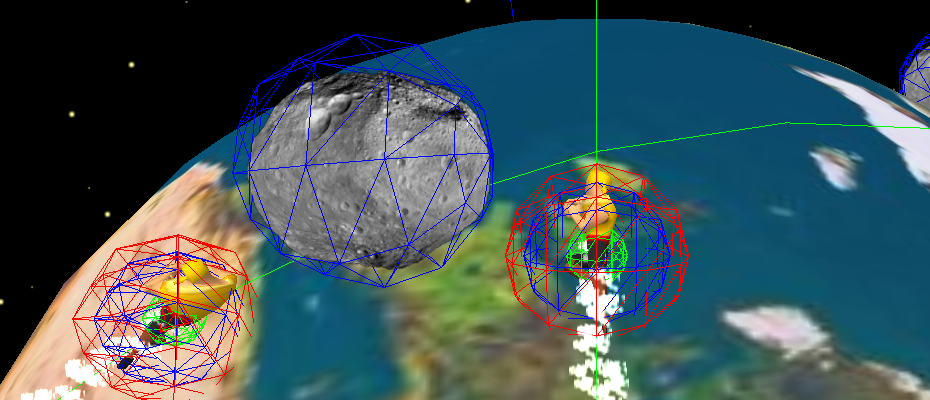
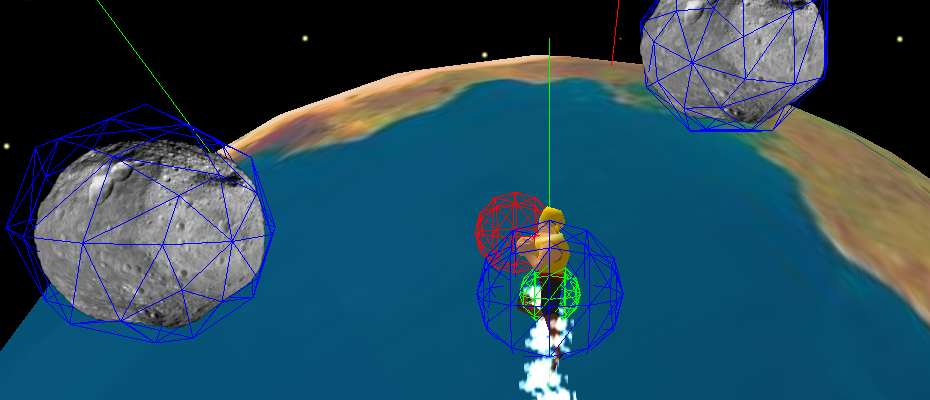
Updates the punch hitbox so only the fists can damage asteroids.

diff --git a/googleclosure/src/objects/Player.js b/googleclosure/src/objects/Player.js
@@ -74,6 +74,10 @@ l3.objects.Player = function(model, stateMachine, options) {
     this.pivot2.add(this.pivot);
     this.pivot.add(this.model);
 
+    this.punchHitbox = new THREE.Object3D();
+    this.punchHitbox.position.set(1.3, 0.6, 0);
+    this.pivot.add(this.punchHitbox);
+
     if (debug === true) {
         var hitbox = new THREE.Mesh(new THREE.SphereGeometry(this.size), new THREE.MeshBasicMaterial({ 'color': 0x0000ff, 'wireframe': true }));
         hitbox.position.z = model.position.z;
@@ -83,9 +87,9 @@ l3.objects.Player = function(model, stateMachine, options) {
         hitbox2.position.z = model.position.z;
         this.pivot.add(hitbox2);
 
-        var hitbox3 = new THREE.Mesh(new THREE.SphereGeometry(1.5), new THREE.MeshBasicMaterial({ 'color': 0xff0000, 'wireframe': true }));
+        var hitbox3 = new THREE.Mesh(new THREE.SphereGeometry(0.8), new THREE.MeshBasicMaterial({ 'color': 0xff0000, 'wireframe': true }));
         hitbox3.position.z = model.position.z;
-        this.pivot.add(hitbox3);
+        this.punchHitbox.add(hitbox3);
     }
 
     options = options || {};
@@ -104,6 +108,12 @@ l3.objects.Player = function(model, stateMachine, options) {
      * @type {Object}
      */
     this.worldposition = new THREE.Vector3(0, 0, 0);
+
+    /**
+     * The position of the punch hitbox
+     * @type {Object}
+     */
+    this.punchWorldposition = new THREE.Vector3(0, 0, 0);
 
     /**
      * A particle system for the smoke trail.
@@ -167,6 +177,9 @@ l3.objects.Player.prototype.deserializeState = function(data) {
 l3.objects.Player.prototype.update = function(delta) {
     // Update the worldposition.
     this.worldposition.setFromMatrixPosition(this.model.matrixWorld);
+
+    // Update the punch worldposition.
+    this.punchWorldposition.setFromMatrixPosition(this.punchHitbox.matrixWorld);
 
     // Add new particles.
     this.system.spawn(this.worldposition, this.pivot2.rotation, 0.5);

diff --git a/googleclosure/src/main/main.js b/googleclosure/src/main/main.js
@@ -331,14 +331,16 @@ window['showClassSelect'] = showClassSelect;
 
 function enableDebug() {
     debug = true;
-    gameEnd();
 
-    for (var i = scene.children-1; i>=0; i--) {
-        scene.remove(scene.children[i]);
+    if (scene !== undefined) {
+        gameEnd();
+        for (var i = scene.children-1; i>=0; i--) {
+            scene.remove(scene.children[i]);
+        }
+        for (var i = scene2.children-1; i>=0; i--) {
+            scene2.remove(scene2.children[i]);
+        }
+        downloader.readyCallback();
     }
-    for (var i = scene2.children-1; i>=0; i--) {
-        scene2.remove(scene2.children[i]);
-    }
-    downloader.readyCallback();
 }
 window['debug'] = enableDebug;

diff --git a/googleclosure/src/init/PlayerFactory.js b/googleclosure/src/init/PlayerFactory.js
@@ -38,7 +38,7 @@ l3.init.PlayerFactory.Wizard = function(position) {
             }
         }
         animationListener.on(model.animations[2], 0.3, function(e) {
-            var target = collisionHelper.hit(player.worldposition, 1.5, player)[0];
+            var target = collisionHelper.hit(player.punchWorldposition.add(player.worldposition), 0.8, player)[0];
             if (target !== undefined) {
                 if (target instanceof l3.objects.Player || target instanceof l3.objects.Asteroid) {
                     if (networker.isHost === true || networker.token === undefined) {
